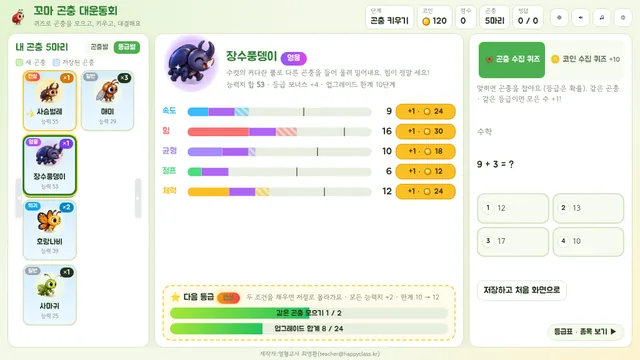
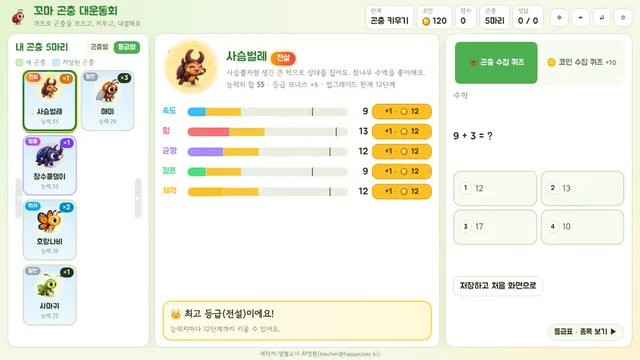
연구소 퀴즈: 설명은 마우스를 올리면 팝업, 퀴즈 칸 넓히기, 긴 문제 · 보기도 잘리지 않게
- 곤충 수집 퀴즈 · 코인 수집 퀴즈 설명 문장을 빼고, 버튼에 마우스를 올리면(키보드 포커스도) 말풍선 팝업으로 보여 주기
- 오른쪽 칸 262 → 300px, 작전 시간의 시계 · 이번 종목을 한 줄로 줄여 퀴즈 자리 넓히기
- 긴 문제는 글자를 조금 작게, 보기 중 하나라도 길면 한 줄에 하나씩, 줄바꿈 허용
- 넘치면 퀴즈 칸 안에서 위아래로 볼 수 있게 (잘림 방지)
- 게임 방법 스크린샷(곤충 키우기 · 작전 시간)을 바뀐 화면으로 다시 찍기

Claude-Session: https://claude.ai/code/session_017CQP1dksAdQ23i4GmYJ1Vb

Changed region(s): [[0.25, 0.0917, 0.9688, 0.9778], [0.0312, 0.1833, 0.125, 0.55], [0.3438, 0.5194, 0.4375, 0.55]]

diff --git a/public/js/game.js b/public/js/game.js
@@ -238,7 +238,8 @@
   const subjectOf = q => q.subjectLabel || Q.label(q.subject);
   function questionHTML(q) {
     if (q.type === 'short') return `<form class="short-form" id="shortForm"><input id="shortIn" type="text" autocomplete="off" placeholder="정답을 써요" aria-label="정답"><button class="btn primary" type="submit">확인</button></form>`;
-    return `<div class="opts ${q.type === 'ox' ? 'ox' : ''}">${q.options.map((o, i) => `<button type="button" class="opt" data-i="${i}">${q.type === 'ox' ? '' : `<b>${i + 1}</b>`}<span>${esc(o)}</span></button>`).join('')}</div>`;
+    const longOpt = q.type !== 'ox' && (q.options || []).some(o => String(o).length > 10);
+    return `<div class="opts ${q.type === 'ox' ? 'ox' : ''} ${longOpt ? 'long' : ''}">${q.options.map((o, i) => `<button type="button" class="opt" data-i="${i}">${q.type === 'ox' ? '' : `<b>${i + 1}</b>`}<span>${esc(o)}</span></button>`).join('')}</div>`;
   }
   function coinBoardHTML() {
     const board = P.coinBoard;
@@ -607,8 +608,10 @@
       const spent = !canEnter(P.sel);
       const ev = P.nextEv && EV.EVENTS[P.nextEv];
       return `<div class="go-box">
-        <div class="lab-clock">⏱ 작전 시간 <b id="labLeft">-:--</b></div>
-        <p class="next-ev ${ev ? '' : 'secret'}">${ev ? `${n}라운드 종목: <b>${ev.icon} ${esc(ev.name)}</b> <small>${ev.stats.map(k => D.STATS.find(s => s.k === k).name).join('·')}</small>` : `${n}라운드 종목: <b>❓ 비공개</b> <small>4라운드부터는 깜짝 종목!</small>`}</p>
+        <div class="go-row">
+          <div class="lab-clock" title="작전 시간">⏱ <b id="labLeft">-:--</b></div>
+          <p class="next-ev ${ev ? '' : 'secret'}" title="${ev ? `중요 능력: ${ev.stats.map(k => D.STATS.find(s => s.k === k).name).join(' · ')}` : '4라운드부터는 깜짝 종목!'}"><small>${n}라운드</small> <b>${ev ? `${ev.icon} ${esc(ev.name)}` : '❓ 비공개'}</b></p>
+        </div>
         <button type="button" class="btn primary big" id="labReady" ${P.labReady || spent ? 'disabled' : ''}>${spent ? `${esc(ins.name)}: ${whyNot(bug(P.sel))}` : P.labReady ? `✅ ${esc(ins.name)} 준비 완료!` : `✅ ${esc(ins.name)}(으)로 ${n}라운드 준비 완료`}</button>
       </div>
       <div class="grow-box" id="growBox"></div>`;
@@ -1109,12 +1112,11 @@
     const G = P.growQ, q = G.q;
     box.innerHTML = `
       <div class="grow-tabs" role="tablist">
-        <button type="button" role="tab" data-grow-kind="collect" aria-selected="${kind === 'collect'}">🦋 곤충 수집 퀴즈</button>
-        <button type="button" role="tab" data-grow-kind="coin" aria-selected="${kind === 'coin'}">🪙 코인 수집 퀴즈 <small>+${settings.coinPerCorrect}</small></button>
+        <button type="button" role="tab" data-grow-kind="collect" aria-selected="${kind === 'collect'}" data-tip="맞히면 곤충을 잡아요! 어떤 곤충 · 어떤 등급(일반 55% · 희귀 28% · 영웅 12% · 전설 5%)일지는 확률이에요. 같은 곤충 · 같은 등급을 또 잡으면 모은 수 +1 · 능력치 +1">🦋 곤충 수집 퀴즈</button>
+        <button type="button" role="tab" data-grow-kind="coin" aria-selected="${kind === 'coin'}" data-tip="맞히면 코인 ${settings.coinPerCorrect}개를 받아요. 코인으로 속도 · 힘 · 균형 · 점프 · 체력을 올려요.">🪙 코인 수집 퀴즈 <small>+${settings.coinPerCorrect}</small></button>
       </div>
-      <p class="hint">${kind === 'collect' ? '맞히면 곤충을 잡아요 (등급은 확률). 같은 곤충 · 같은 등급이면 모은 수 +1!' : `맞히면 코인 ${settings.coinPerCorrect}개. 코인으로 능력치를 올려요.`}</p>
       <p class="q-subject">${esc(Q.label(q.subject))}</p>
-      <p class="grow-q">${esc(q.q)}</p>
+      <p class="grow-q ${q.q.length > 45 ? 'long' : ''}">${esc(q.q)}</p>
       ${questionHTML(q)}
       <div id="growFb">${G.html}</div>
       ${together() ? '' : '<div class="row"><button type="button" class="btn" id="growExit">저장하고 처음 화면으로</button></div>'}`;
@@ -1197,9 +1199,9 @@
         marks: [[33, 17, 1], [70, 23, 2], [30, 36, 3]],
         points: [n(1, '<b>별명</b> — 🔀 를 누르면 재미있는 별명이 나와요'), n(2, '<b>🌱 혼자 하기</b> = 곤충 키우기 · <b>🏃 여럿이 하기</b> = 곤충 운동회'), n(3, '<b>시작</b> 버튼을 눌러요. 곤충은 두 방식이 <b>같은 모음</b>을 함께 써요')] },
       { ch: 1, title: '곤충 키우기 (혼자 하기)', img: 'grow', who: ['ladybug', 'happy', 0], say: '퀴즈를 풀면서 곤충을 모으고 키우는 곳이야. 자동으로 저장돼!',
-        marks: [[11, 50, 1], [67, 44, 2], [88, 17, 3], [48, 88, 4]],
+        marks: [[11, 50, 1], [62, 42, 2], [88, 17, 3], [48, 88, 4]],
         points: [n(1, '<b>내 곤충 카드</b> — 누르면 자세히 봐요. <span class="g-chip new">NEW 연초록</span> 새 곤충 · <span class="g-chip old">연하늘</span> 저장된 곤충 · <b>×3</b> 모은 수'),
-          n(2, '<b>코인</b>으로 능력치를 +1씩 올려요 (속도 · 힘 · 균형 · 점프 · 체력)'), n(3, `<b>곤충 수집 퀴즈</b>(곤충 채집) · <b>코인 수집 퀴즈</b>(+${S.coinPerCorrect} 코인) 중 골라요`), n(4, '<b>다음 등급</b>까지 얼마나 남았는지 보여 줘요')] },
+          n(2, '<b>코인</b>으로 능력치를 +1씩 올려요 (속도 · 힘 · 균형 · 점프 · 체력)'), n(3, `<b>곤충 수집 퀴즈</b>(곤충 채집) · <b>코인 수집 퀴즈</b>(+${S.coinPerCorrect} 코인) 중 골라요`), n(4, '<b>등급 상태</b> — 다음 등급까지 남은 조건을 보여 줘요'), '<span class="g-dot">💬</span>퀴즈 이름에 <b>마우스를 올리면</b> 설명이 나와요'] },
       { ch: 1, title: '퀴즈를 맞히면 곤충 채집!', img: 'grow_catch', who: ['grasshopper', 'happy', 0], say: '정답이면 곤충을 잡아! 등급은 뽑기처럼 확률로 정해져.',
         marks: [[85, 50, 1]],
         points: [n(1, '어떤 곤충이 나올지, 어떤 <b>등급</b>일지는 확률이에요'), probBar,
@@ -1221,7 +1223,7 @@
         points: [n(1, '정답을 <b>빨리</b> 맞혀요'), n(2, '맞힌 순서대로 코인 순위가 나와요'),
           `<div class="g-coins"><span>🥇 20</span><span>🥈 15</span><span>🥉 10</span><span>4⃣ 5</span><span class="x">❌ 0</span></div><small class="hint">4명일 때 · 2명이면 1등 10 · 2등 5</small>`] },
       { ch: 2, title: '③ 작전 시간 (곤충 연구소)', img: 'lab', who: ['mantis', undefined, 0], say: '라운드 전에 곤충을 키우고 출전할 곤충을 골라! 퀴즈도 풀 수 있어.',
-        marks: [[8, 38, 1], [61, 47, 2], [74.5, 19, 3], [74.5, 36, 4], [74.5, 45, 5]],
+        marks: [[8, 38, 1], [62, 47, 2], [71.5, 19, 3], [71.5, 26, 4], [71.5, 35, 5]],
         points: [n(1, '출전할 곤충 고르기 — <b>한 곤충은 2번</b>까지, 원래 있던 <b>저장된 곤충은 모두 합쳐 3번</b>까지'), n(2, '코인으로 능력치 올리기'),
           n(3, `남은 시간 · <b>이번 종목</b> (1~3라운드는 미리 공개, 4라운드부터 비공개)`), n(4, '<b>준비 완료</b> — 모두 누르면 바로 시작'), n(5, '시간이 남으면 곤충 · 코인 수집 퀴즈! 시간이 되면 저절로 운동회로 넘어가요')] },
       { ch: 2, title: `④ 곤충 운동회 (${S.battleCount}라운드)`, img: 'battle', who: ['rhino', 'strain', 2], say: '★ 표시가 내 곤충이야! 버튼을 눌러서 응원하자!',

diff --git a/public/css/style.css b/public/css/style.css
@@ -774,3 +774,40 @@ body { background: #cfe0b9; background-image: none; overscroll-behavior: none; }
 .g-points li:has(> .g-prob), .g-points li:has(> .g-coins), .g-points li:has(> small) { padding-left: 0; }
 .g-points li > .g-prob, .g-points li > .g-coins { margin: 2px 0; }
 .g-ctl ul { font-size: 11.5px; line-height: 1.3; }
+
+/* ---------- 연구소 퀴즈: 넓게, 설명은 마우스를 올리면 팝업, 긴 문제 · 보기도 잘리지 않게 ---------- */
+.lab-main { grid-template-columns: 227px minmax(0, 1fr) 300px; }
+.grow-tabs button { position: relative; }
+.grow-tabs button[data-tip]::after {
+  content: attr(data-tip); position: absolute; top: calc(100% + 8px); left: 50%; transform: translateX(-50%) translateY(-4px);
+  width: 250px; padding: 8px 10px; border-radius: 10px; background: #23331c; color: #fff; font-family: var(--font-body); font-size: 12px; line-height: 1.45;
+  text-align: left; white-space: normal; box-shadow: 0 6px 16px rgba(0,0,0,.25); opacity: 0; pointer-events: none; transition: opacity .15s, transform .15s; z-index: 30;
+}
+.grow-tabs button[data-tip]::before { content: ''; position: absolute; top: calc(100% + 1px); left: 50%; transform: translateX(-50%); border: 7px solid transparent; border-bottom-color: #23331c; opacity: 0; transition: opacity .15s; z-index: 30; }
+.grow-tabs button[data-tip]:nth-child(2)::after { left: auto; right: 0; transform: translateY(-4px); }
+.grow-tabs button[data-tip]:hover::after, .grow-tabs button[data-tip]:focus-visible::after { opacity: 1; transform: translateX(-50%) translateY(0); }
+.grow-tabs button[data-tip]:nth-child(2):hover::after, .grow-tabs button[data-tip]:nth-child(2):focus-visible::after { transform: translateY(0); }
+.grow-tabs button[data-tip]:hover::before, .grow-tabs button[data-tip]:focus-visible::before { opacity: 1; }
+.grow-tabs { overflow: visible; }
+.grow-box { overflow-y: auto; overflow-x: visible; scrollbar-width: thin; gap: 6px; }
+.grow-q { font-size: 16px; line-height: 1.4; white-space: pre-line; word-break: keep-all; overflow-wrap: anywhere; }
+.grow-q.long { font-size: 14px; }
+.grow-box .opt { min-height: 38px; font-size: 13.5px; padding: 6px 8px; line-height: 1.3; align-items: center; }
+.grow-box .opt span { white-space: normal; word-break: keep-all; overflow-wrap: anywhere; }
+.grow-box .opts.long { grid-template-columns: 1fr; }
+.grow-box .opts.long .opt { min-height: 32px; }
+.grow-tabs { position: relative; }
+.grow-tabs button { position: static; }
+.grow-tabs button[data-tip]::after, .grow-tabs button[data-tip]:nth-child(2)::after { left: 0; right: 0; width: auto; transform: translateY(-4px); }
+.grow-tabs button[data-tip]:hover::after, .grow-tabs button[data-tip]:focus-visible::after,
+.grow-tabs button[data-tip]:nth-child(2):hover::after, .grow-tabs button[data-tip]:nth-child(2):focus-visible::after { transform: translateY(0); }
+.grow-tabs button[data-tip]:nth-child(1)::before { left: 25%; } .grow-tabs button[data-tip]:nth-child(2)::before { left: 75%; }
+/* 작전 시간: 시계 · 종목을 한 줄로 (퀴즈 자리를 넓게) */
+.go-box .go-row { display: flex; gap: 6px; align-items: stretch; }
+.go-row .lab-clock { flex: none; display: flex; align-items: center; gap: 2px; padding: 2px 8px; font-size: 13px; }
+.go-row .lab-clock b { font-size: 18px; }
+.go-row .next-ev { flex: 1; min-width: 0; display: flex; align-items: center; justify-content: center; gap: 4px; padding: 2px 6px; font-size: 12px; white-space: nowrap; overflow: hidden; }
+.go-row .next-ev b { font-size: 13.5px; overflow: hidden; text-overflow: ellipsis; }
+.go-box .btn.big { padding: 7px 10px; font-size: 14px; }
+.lab-act { gap: 6px; }
+.go-row .next-ev small { font-size: 11px; color: var(--ink-dim); flex: none; }
